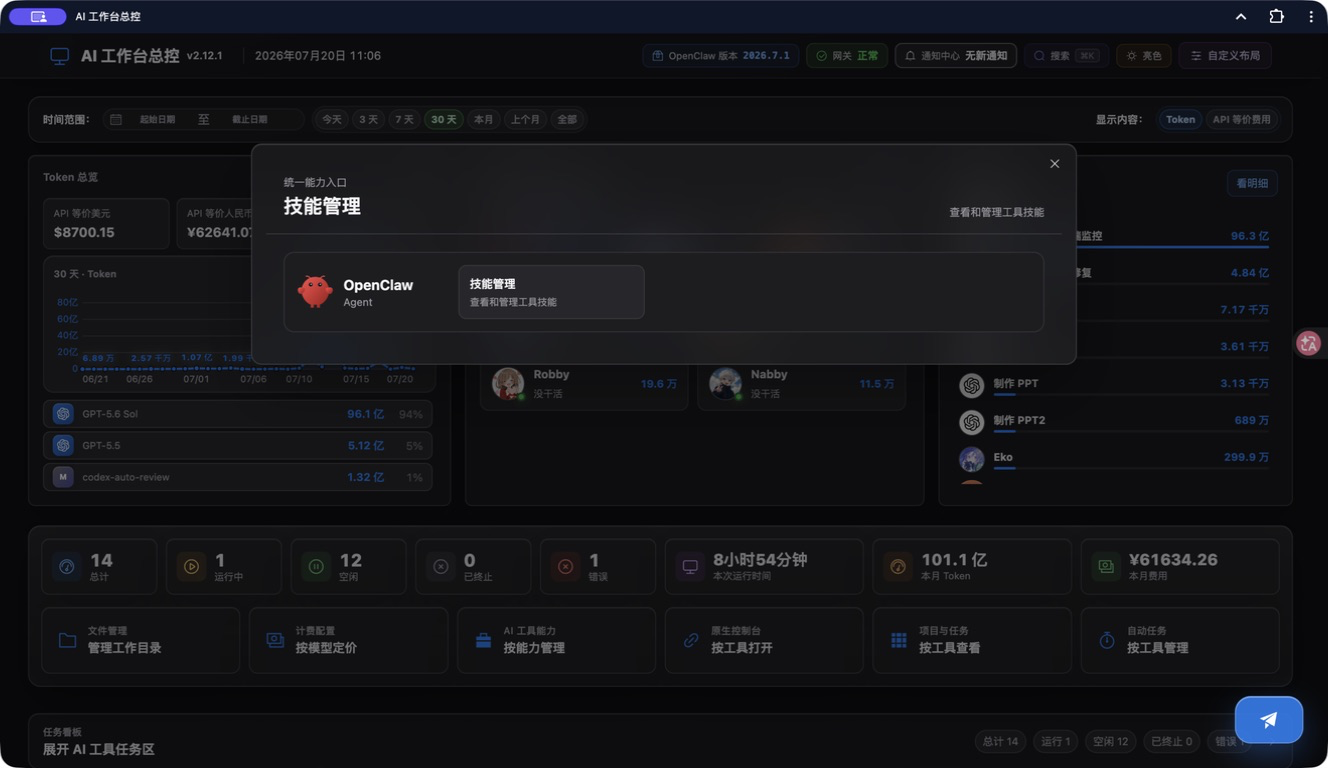
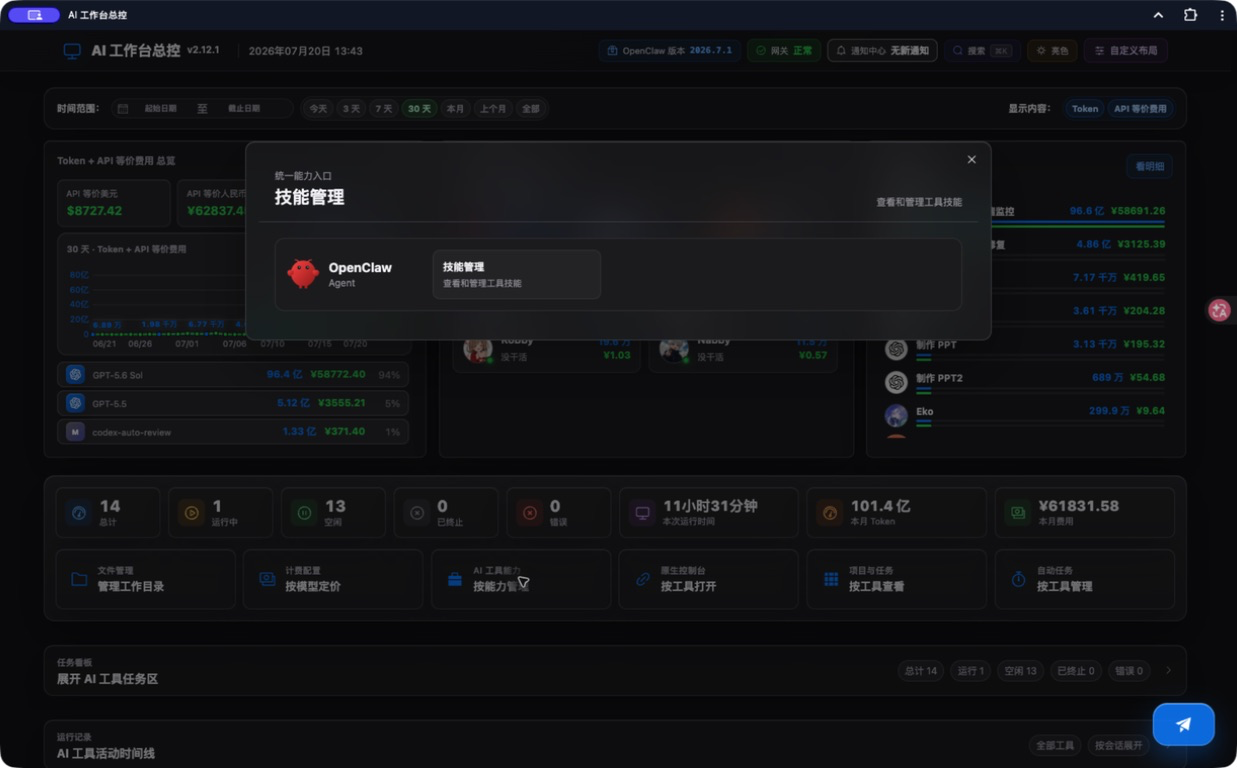
docs: refresh feature screenshots for current layout

diff --git a/README.md b/README.md
@@ -35,14 +35,21 @@
 
 ![项目 Token 与费用明细](docs/images/usage-details.png)
 
+模型价格可直接在工作台维护，支持输入、输出、缓存读写价格和分时折扣。
+
+![按模型维护计费规则](docs/images/billing-config.png)
+
 ### 查看项目与执行记录
 
 - 从工作脉冲、贡献排行或监控明细进入同一项目范围。
 - 统一查看用户消息、AI 回复、思考摘要、工具调用、工具结果和 Token 记录。
 - OpenClaw 按 Agent 查看，Codex 与 Claude Code 按项目查看。
 - 当前执行记录为只读功能，不会误发送消息或恢复会话。
+- 活动时间线把不同 AI 工具的会话放在同一条时间轴中，可按工具、时间和会话查看。
 
 ![OpenClaw 执行记录与工具调用](docs/images/execution-records.png)
+
+![全平台 AI 工具活动时间线](docs/images/activity-timeline.png)
 
 ### 管理 AI 工作目录
 
@@ -57,13 +64,30 @@
 ### 管理 Agent、技能与定时任务
 
 - 查看 OpenClaw Agent 详情、对话历史、模型和上下文消耗。
+- 使用快捷发消息面板选择 Agent、常用模板并发送消息。
+- Agent 语音界面可使用当前音色朗读消息，并保留文字会话、上下文和历史 Token 信息。
 - 管理 Agent 技能，按已配置、未安装、Agent 和使用情况分类查看。
 - 查看、新建、编辑、暂停、立即执行和删除 Cron 定时任务。
 - 定时任务可查看执行记录、输出和结果。
 
+![OpenClaw Agent 详情](docs/images/agent-detail.png)
+
+![向 Agent 快捷发消息](docs/images/quick-message.png)
+
+![Agent 语音与文字会话](docs/images/agent-voice.png)
+
 ![AI 工具能力管理](docs/images/tool-capabilities.png)
 
 ![OpenClaw 定时任务中心](docs/images/task-center.png)
+
+### 快速查找与个性化布局
+
+- 全局搜索可定位功能、AI 工具对象、项目、会话和历史消息。
+- 页面模块、顶栏工具、功能按钮和统计卡片均可调整顺序，并自动记住布局。
+
+![全局搜索](docs/images/global-search.png)
+
+![自定义工作台布局](docs/images/custom-layout.png)
 
 ### 通知、更新与回退
 
